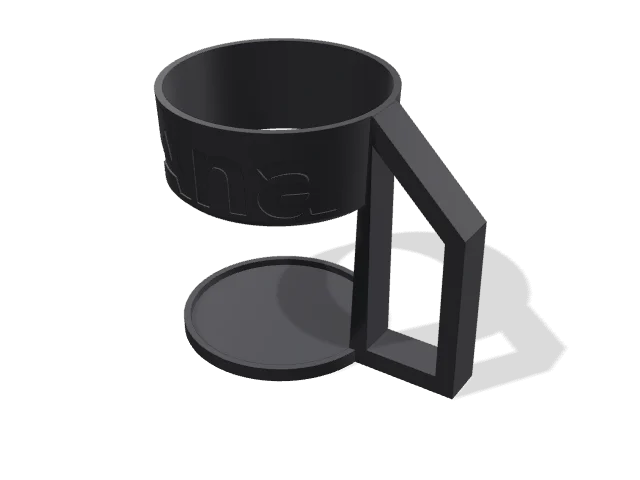
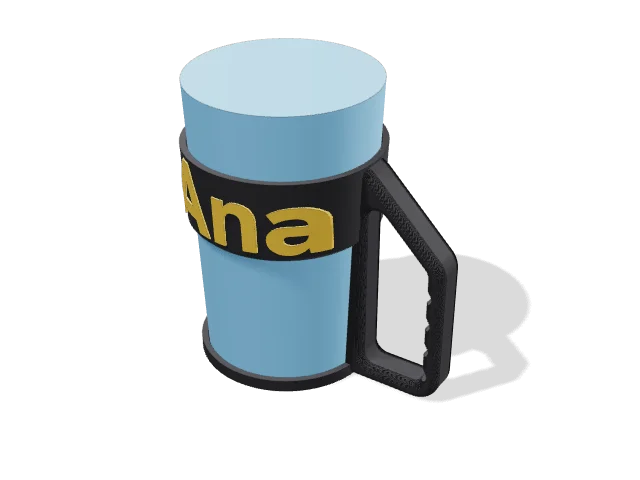
feat: alça de copo: alça arredondada e ergonômica, nome em relevo por padrão, luva vazada/com faixas e copo fantasma na prévia (#221)
Alça com cantos de raio, seção oval e marcas de dedo opcionais; nome em relevo de outra cor como padrão; luva lisa, vazada (furos em volta, sem a frente e a alça) ou com faixas; copo fantasma translúcido do perfil escolhido (só prévia, fora da medida e do arquivo). A medida do chip da prévia passa a ignorar partes fantasma.

Changed region(s): [[0.2188, 0.0625, 0.875, 0.8438]]

diff --git a/src/geometry/models/cupHandle.ts b/src/geometry/models/cupHandle.ts
@@ -1,5 +1,6 @@
 import type { CS, Solid } from "../manifold";
 import { fitInto, scoped } from "../shape2d";
+import { bevelPrism } from "./bevel";
 import { solidMesh, type ModelCtx, type ModelOutput } from "./common";
 
 export type CupHandleParams = {
@@ -19,6 +20,12 @@ export type CupHandleParams = {
   handleWidth: number;
   /** Vão para os dedos. */
   fingerGap: number;
+  /** Luva: lisa, vazada (furos redondos em volta) ou com faixas em relevo no alto e embaixo. */
+  sleeveStyle: "smooth" | "cutouts" | "bands";
+  /** Marcas de dedo na pegada da alça. */
+  grooves: boolean;
+  /** Copo fantasma translúcido na prévia (só para ver o encaixe; não vai para o arquivo). */
+  showCup: boolean;
   name: string;
   nameMode: "engraved" | "raised" | "none";
   depth: number;
@@ -38,13 +45,18 @@ export const DEFAULT_CUP_HANDLE: CupHandleParams = {
   wall: 3,
   handleWidth: 18,
   fingerGap: 32,
+  sleeveStyle: "smooth",
+  grooves: true,
+  showCup: true,
   name: "Ana",
-  nameMode: "engraved",
+  nameMode: "raised",
   depth: 0.8,
   print: "full",
   bodyColor: "#1c1c1e",
   nameColor: "#f5c542",
 };
+
+const CUP_COLOR = "#8fd3ff";
 
 const FLOOR = 6; // espessura do fundo (mm)
 const RECESS = 3; // quanto o fundo do copo entra no assento
@@ -53,6 +65,18 @@ const TEST_HEIGHT = 14; // altura do anel de teste
 const SEGMENTS = 128;
 const SLANT_MIN = 10; // folga mínima entre a barra de baixo e o começo da inclinação de cima
 const MIN_TAPER_WALL = 1.2;
+const PLATE_ROUND = 12; // raio dos cantos de fora da alça
+const WINDOW_ROUND = 6; // raio dos cantos do vão dos dedos
+const EDGE_ROUND = 4; // arredondado da seção da alça (oval)
+const GROOVE_R = 3.5; // marcas de dedo
+const GROOVE_STEP = 14;
+const CUTOUT_COUNT = 12;
+const CUTOUT_FRONT_DEG = 40; // sem furo na frente (nome) nem do lado da alça
+const CUTOUT_HANDLE_DEG = 30;
+const BAND_H = 4;
+const BAND_UP = 0.8;
+const BANDS_MIN_SLEEVE = 30;
+const GHOST_ABOVE = 30; // quanto o copo fantasma passa do topo da luva
 const NAME_EMBED = 0.4; // quanto o relevo do nome entra na parede da luva (fica preso, não solto no ar)
 
 /** Diâmetro do copo a `z` mm da base. */
@@ -114,13 +138,28 @@ export function buildCupHandle(ctx: ModelCtx, p: CupHandleParams): ModelOutput {
     const zTop = L.sleeveTop;
     const zO = Math.max(zTop - (xOut - L.rSleeveTopOut), BAR + SLANT_MIN); // inclinação de 45° em cima: imprime sem suporte
     const outerPoly: [number, number][] = [[0, 0], [xOut, 0], [xOut, zO], [L.rSleeveTopOut, zTop], [0, zTop]];
+    const rounded = (cs: CS, r: number) => k(k(cs.offset(-r, "Round")).offset(r, "Round")); // tira as quinas vivas (cantos convexos com raio r)
     const plate = k(new M.CrossSection([outerPoly], "NonZero"));
     const inside = k(plate.offset(-BAR, "Round"));
     const keep = k(k(M.CrossSection.square([xOut, zTop], false)).translate([xW, 0]));
-    const window = k(inside.intersect(keep));
-    const frame = k(plate.subtract(window));
+    const window = rounded(k(inside.intersect(keep)), WINDOW_ROUND);
+    // a peça de fora arredondada só nos cantos de fora (o lado que entra na luva fica reto, vai para dentro do corpo)
+    const wide = k(new M.CrossSection([[[-50, 0], ...outerPoly.slice(1, 4), [-50, zTop]]], "NonZero")); // prolonga para o lado do eixo: o raio não morde a junção
+    const fromAxis = k(M.CrossSection.square([xOut + 1, zTop + 1], false)); // só o lado de fora do eixo
+    const frame = k(k(rounded(wide, PLATE_ROUND).intersect(fromAxis)).subtract(window));
+    // seção oval: as quatro bordas (fora, vão e topos) recuam em arco nas duas faces
+    const grip = k(bevelPrism(M, frame, p.handleWidth, "round", EDGE_ROUND, { bottom: true, top: true }));
     // CrossSection (x, z) → sólido: extrudado em Y e girado para o plano XZ
-    const handle = k(k(k(frame.extrude(p.handleWidth)).rotate([90, 0, 0])).translate([0, p.handleWidth / 2, 0]));
+    let handle = k(k(grip.rotate([90, 0, 0])).translate([0, p.handleWidth / 2, 0]));
+    if (p.grooves) {
+      // marcas de dedo: sulcos redondos na face de dentro da barra de fora
+      const n = Math.max(2, Math.min(5, Math.floor((zO - 2 * BAR) / GROOVE_STEP)));
+      const grooves = Array.from({ length: n }, (_, i) => {
+        const z = BAR + (zO - 2 * BAR) * ((i + 0.5) / n);
+        return k(k(k(M.Manifold.cylinder(p.handleWidth + 2, GROOVE_R, GROOVE_R, 24)).rotate([90, 0, 0])).translate([xOut - BAR, p.handleWidth / 2 + 1, z]));
+      });
+      handle = k(handle.subtract(k(M.Manifold.union(grooves))));
+    }
 
     let body = k(M.Manifold.union([floor, sleeve, handle]));
     // assento do copo e o espaço do corpo cônico (todo o cone, para a alça não entrar no copo)
@@ -128,24 +167,59 @@ export function buildCupHandle(ctx: ModelCtx, p: CupHandleParams): ModelOutput {
     const bore = k(cone(M, L.rIn(0), L.rIn(p.bodyHeight), L.z0, L.z0 + p.bodyHeight));
     body = k(k(body.subtract(seat)).subtract(bore));
 
+    // ---- luva: faixas em relevo ou furos vazados em volta
+    const outerCone = (extra: number, z0 = L.sleeveBottom, z1 = L.sleeveTop) => {
+      const at = (z: number) => rb + p.wall + ((rt - rb) * (z - L.sleeveBottom)) / p.sleeveHeight + extra;
+      return k(cone(M, at(z0), at(z1), z0, z1));
+    };
+    const bands = p.sleeveStyle === "bands" && p.sleeveHeight >= BANDS_MIN_SLEEVE;
+    if (p.sleeveStyle === "bands" && !bands) warnings.push("A luva é baixa para as faixas: aumente a altura da luva (30 mm ou mais).");
+    const bandParts: Solid[] = [];
+    if (bands) {
+      const lowZ = L.sleeveBottom + p.wall + 1, highZ = L.sleeveTop - BAND_H;
+      for (const z of [lowZ, highZ]) bandParts.push(k(outerCone(BAND_UP, z, z + BAND_H).subtract(outerCone(-NAME_EMBED, z, z + BAND_H))));
+      body = k(body.add(k(M.Manifold.union(bandParts))));
+    }
+    if (p.sleeveStyle === "cutouts" && p.sleeveHeight >= BANDS_MIN_SLEEVE) {
+      const zc = (L.sleeveBottom + p.wall + L.sleeveTop) / 2;
+      const r = Math.min(5, (L.sleeveTop - L.sleeveBottom - p.wall) / 2 - 3);
+      const holes: Solid[] = [];
+      for (let i = 0; i < CUTOUT_COUNT; i++) {
+        const deg = (360 * i) / CUTOUT_COUNT; // 0° = lado da alça (+X), 270° = frente (-Y, nome)
+        const fromHandle = Math.min(deg, 360 - deg), fromFront = Math.abs(deg - 270);
+        if (fromHandle < CUTOUT_HANDLE_DEG || fromFront < CUTOUT_FRONT_DEG) continue;
+        // furo redondo na direção do raio, atravessando só a parede
+        holes.push(k(k(k(k(M.Manifold.cylinder(L.rMaxOut + 5, r, r, 24)).rotate([-90, 0, 0])).rotate([0, 0, deg - 90])).translate([0, 0, zc])));
+      }
+      if (holes.length) body = k(body.subtract(k(M.Manifold.union(holes))));
+    }
+
     // ---- nome na frente da luva (o lado de quem olha, a 90° da alça), curvo como o cone: gravado ou em relevo
     const parts: { name: string; color: string; mesh: ReturnType<typeof solidMesh> }[] = [];
     let nameSolid: Solid | null = null;
     if (p.nameMode !== "none" && p.name.trim()) {
       const raw = ctx.text(p.name, 12);
       if (raw) {
-        const zLow = L.sleeveBottom + p.wall + 2, zHigh = L.sleeveTop - 2; // acima da rampa de baixo
+        const zLow = L.sleeveBottom + p.wall + (bands ? 1 + BAND_H + 1.5 : 2), zHigh = L.sleeveTop - (bands ? BAND_H + 1.5 : 2); // acima da rampa de baixo e entre as faixas
         const circumference = Math.PI * (L.rIn(p.gripZ) + p.wall + L.rSleeveTopOut);
         const t: CS = k(fitInto(k(raw), Math.min(circumference * 0.4, 90), Math.max(6, zHigh - zLow), (zLow + zHigh) / 2));
         // texto no plano XZ, empurrado para -Y a partir do eixo; a casca do cone recorta a profundidade
         const prism = k(k(t.extrude(L.rMaxOut + 5)).rotate([90, 0, 0]));
-        const outerCone = (extra: number) => k(cone(M, rb + p.wall + extra, rt + p.wall + extra, L.sleeveBottom, L.sleeveTop));
         if (p.nameMode === "engraved") body = k(body.subtract(k(prism.intersect(k(outerCone(1).subtract(outerCone(-p.depth)))))));
         else nameSolid = k(prism.intersect(k(outerCone(p.depth).subtract(outerCone(-NAME_EMBED)))));
       }
     }
     parts.push({ name: "Alça", color: p.bodyColor, mesh: solidMesh(body) });
     if (nameSolid) parts.push({ name: "Nome", color: p.nameColor, mesh: solidMesh(nameSolid) });
-    return { models: [{ name: "Alça de copo", parts }], warnings };
+    const models: { name: string; parts: typeof parts; previewOnly?: boolean }[] = [{ name: "Alça de copo", parts }];
+    if (p.showCup) {
+      // copo fantasma do perfil, assentado onde o copo fica: só a parte de baixo, até um pouco acima da luva
+      const h = Math.min(p.bodyHeight, L.sleeveTop + GHOST_ABOVE - L.z0);
+      const top = L.rIn(h) - p.clearance;
+      const cupBody = k(M.Manifold.cylinder(h, p.baseDiameter / 2, top, SEGMENTS)).translate([0, 0, L.z0]);
+      models.push({ name: "Copo (só na prévia)", previewOnly: true, parts: [{ name: "", color: CUP_COLOR, ghost: true, mesh: solidMesh(cupBody) } as (typeof parts)[number]] });
+      cupBody.delete();
+    }
+    return { models, warnings };
   });
 }

diff --git a/src/geometry/models/cupHandle.test.ts b/src/geometry/models/cupHandle.test.ts
@@ -104,4 +104,52 @@ describe("alça de copo térmico: luva cônica, fundo, alça com nome e anel de 
       s.delete();
     }
   });
+
+  test("alça arredondada: a seção é oval (a borda da face some, o meio é cheio) e as marcas de dedo tiram material", () => {
+    const L = handleLayout(DEFAULT_CUP_HANDLE);
+    const xBar = L.rMaxOut + DEFAULT_CUP_HANDLE.fingerGap + 4; // meio da barra de fora
+    const probe = (y: number, z: number) => M.Manifold.cube([7, 0.2, 1], true).translate([xBar, y, z]);
+    const body = solid(part(handle({ grooves: false }), "Alça")!.mesh);
+    const z = 40;
+    const mid = body.intersect(probe(0, z)).volume(), edge = body.intersect(probe(DEFAULT_CUP_HANDLE.handleWidth / 2 - 0.2, z)).volume();
+    body.delete();
+    expect(mid).toBeGreaterThan(1); // no meio da largura a barra é cheia
+    expect(edge).toBeLessThan(mid * 0.5); // na borda da face ela afina em arco
+    expect(vol(part(handle({ grooves: true }), "Alça")!.mesh)).toBeLessThan(vol(part(handle({ grooves: false }), "Alça")!.mesh) - 5);
+  });
+
+  test("nome em relevo é o padrão (outra cor); copo fantasma só na prévia, translúcido e sem nome na legenda", () => {
+    const out = handle();
+    expect(part(out, "Nome")).toBeDefined();
+    const ghost = out.models.find((m) => m.previewOnly)!;
+    expect(ghost.parts[0].ghost).toBe(true);
+    expect(ghost.parts[0].name).toBe("");
+    const gb = meshBounds([ghost.parts[0].mesh])!;
+    const L = handleLayout(DEFAULT_CUP_HANDLE);
+    expect(gb.min[2]).toBeCloseTo(L.z0, 2); // assentado onde o copo fica
+    expect(gb.max[2]).toBeGreaterThan(L.sleeveTop); // passa do topo da luva
+    expect(gb.max[0] - gb.min[0]).toBeCloseTo(DEFAULT_CUP_HANDLE.baseDiameter + ((DEFAULT_CUP_HANDLE.topDiameter - DEFAULT_CUP_HANDLE.baseDiameter) * (gb.max[2] - L.z0)) / DEFAULT_CUP_HANDLE.bodyHeight, 0);
+    expect(out.models.filter((m) => !m.previewOnly).map((m) => m.name)).toEqual(["Alça de copo"]);
+    expect(handle({ showCup: false }).models.some((m) => m.previewOnly)).toBe(false);
+    // o fantasma não toca a peça (o copo cabe com folga)
+    const body = solid(part(out, "Alça")!.mesh), cupSolid = solid(ghost.parts[0].mesh);
+    expect(body.intersect(cupSolid).volume()).toBeLessThan(0.5);
+    [body, cupSolid].forEach((o) => o.delete());
+  });
+
+  test("luva vazada: furos redondos em volta (menos a frente e a alça); faixas somam relevo; luva baixa avisa; o copo continua cabendo", () => {
+    const smooth = vol(part(handle({ nameMode: "none" }), "Alça")!.mesh);
+    const cut = handle({ sleeveStyle: "cutouts", nameMode: "none" });
+    expect(vol(part(cut, "Alça")!.mesh)).toBeLessThan(smooth - 100);
+    const body = solid(part(cut, "Alça")!.mesh);
+    expect(body.decompose().length).toBe(1);
+    const exact = cup(DEFAULT_CUP_HANDLE, 0);
+    expect(body.intersect(exact).volume()).toBeLessThan(0.5);
+    [body, exact].forEach((o) => o.delete());
+    const banded = handle({ sleeveStyle: "bands", nameMode: "none" });
+    expect(vol(part(banded, "Alça")!.mesh)).toBeGreaterThan(smooth + 20);
+    expect(handle({ sleeveStyle: "bands", sleeveHeight: 20 }).warnings?.join(" ")).toMatch(/luva é baixa/);
+    // o nome em relevo cabe entre as faixas
+    expect(part(handle({ sleeveStyle: "bands" }), "Nome")).toBeDefined();
+  });
 });

diff --git a/src/qa/cases.ts b/src/qa/cases.ts
@@ -63,7 +63,7 @@ export async function modelCtx(M: ManifoldToplevel, p: Params, def: ModelDef): P
 }
 
 /** Variações extras por modelo (além de padrão, mínimo e máximo): opções que mudam a peça e precisam fatiar também. */
-const QA_EXTRA: Record<string, Record<string, Params>> = { starMap: { "estrelas vazadas": { hollow: true, density: "few" } }, musicCard: { QR: { code: "qr", codeSize: 44 } }, wallLetters: { "FESTA 600 mm (muitas partes)": { height: 600 } }, kitBicho: { saurópode: { head: "sauro", tail: "thick" }, "T-rex": { head: "trex", tail: "thick" } }, cupHandle: { "anel de teste": { print: "test" }, "copo pequeno": { baseDiameter: 62, topDiameter: 78, bodyHeight: 165, gripZ: 45, sleeveHeight: 35 }, "nome em relevo": { nameMode: "raised" } }, kitCard: { veículo: { mode: "vehicle" }, "vários cartões": { cardSize: "medium", ribs: 3, spines: 1, copies: 4 }, "uma placa lateral": { spines: 1 } } };
+const QA_EXTRA: Record<string, Record<string, Params>> = { starMap: { "estrelas vazadas": { hollow: true, density: "few" } }, musicCard: { QR: { code: "qr", codeSize: 44 } }, wallLetters: { "FESTA 600 mm (muitas partes)": { height: 600 } }, kitBicho: { saurópode: { head: "sauro", tail: "thick" }, "T-rex": { head: "trex", tail: "thick" } }, cupHandle: { "anel de teste": { print: "test" }, "copo pequeno": { baseDiameter: 62, topDiameter: 78, bodyHeight: 165, gripZ: 45, sleeveHeight: 35 }, "nome gravado": { nameMode: "engraved" }, "luva vazada": { sleeveStyle: "cutouts" }, "luva com faixas": { sleeveStyle: "bands" }, "sem marcas de dedo, sem fantasma": { grooves: false, showCup: false } }, kitCard: { veículo: { mode: "vehicle" }, "vários cartões": { cardSize: "medium", ribs: 3, spines: 1, copies: 4 }, "uma placa lateral": { spines: 1 } } };
 
 /** Padrão, todos os campos numéricos no mínimo e todos no máximo (mais as variações extras do modelo). */
 export function variants(def: ModelDef): [QaCase["variant"], Params][] {

diff --git a/src/geometry/models/bevel.ts b/src/geometry/models/bevel.ts
@@ -1,0 +1,38 @@
+import type { CS, ManifoldToplevel, Solid } from "../manifold";
+import { scoped } from "../shape2d";
+
+export type Edge = "none" | "chamfer" | "round";
+
+const STEP = 0.2; // mm de altura de cada degrau do chanfro: a mesma ordem da camada de impressão
+
+/** Quanto o contorno recua (mm) a z mm do começo da aresta de raio/chanfro `c`. */
+function inset(edge: Edge, c: number, z: number): number {
+  if (edge === "chamfer") return c - z;
+  return c - Math.sqrt(Math.max(0, c * c - (c - z) * (c - z)));
+}
+
+/**
+ * Prisma do contorno `outline` com altura `h`, com a aresta de baixo e/ou a de cima chanfrada ou arredondada (`c` mm).
+ * O perfil sai em degraus de 0,2 mm (a altura de uma camada), então o fatiador vê a curva inteira. Quem chama dá delete().
+ */
+export function bevelPrism(M: ManifoldToplevel, outline: CS, h: number, edge: Edge, c: number, ends: { bottom?: boolean; top?: boolean }): Solid {
+  return scoped((k) => {
+    const cc = edge === "none" ? 0 : Math.min(c, h / 2 - 0.01);
+    if (cc <= 0) return outline.extrude(h);
+    const n = Math.max(1, Math.round(cc / STEP));
+    const slab = (z0: number, z1: number, inner: number) => {
+      const src = inner ? k(outline.offset(-inner, "Round")) : outline;
+      return k(src.extrude(z1 - z0)).translate([0, 0, z0]);
+    };
+    const pieces: Solid[] = [];
+    const lo = ends.bottom ? cc : 0, hi = ends.top ? cc : 0;
+    pieces.push(k(slab(lo, h - hi, 0)));
+    for (let i = 0; i < n; i++) {
+      const z0 = (i * cc) / n, z1 = ((i + 1) * cc) / n;
+      const ins = inset(edge, cc, (z0 + z1) / 2);
+      if (ends.bottom) pieces.push(k(slab(z0, z1, ins)));
+      if (ends.top) pieces.push(k(slab(h - z1, h - z0, ins)));
+    }
+    return M.Manifold.union(pieces);
+  });
+}

diff --git a/src/tools/models/catalog/kitchen.ts b/src/tools/models/catalog/kitchen.ts
@@ -234,7 +234,7 @@ export const KITCHEN_MODELS: ModelDef[] = [
     id: "cupHandle",
     category: "kitchen",
     label: "Alça de copo térmico",
-    blurb: "Alça removível para copo cônico (tipo Stanley): o copo assenta num fundo e uma luva do mesmo cone o abraça, com a alça em D e o nome gravado. Imprima antes o anel de teste.",
+    blurb: "Alça removível para copo cônico (tipo Stanley): o copo assenta num fundo e uma luva do mesmo cone o abraça, com a alça em D com a alça arredondada e o nome na frente. Veja o encaixe pelo copo fantasma e imprima antes o anel de teste.",
     icon: CupSoda,
     font: true,
     defaults: DEFAULT_CUP_HANDLE,
@@ -256,13 +256,16 @@ export const KITCHEN_MODELS: ModelDef[] = [
           num("wall", "Parede da luva", 2, 6, { step: 0.5 }),
           num("handleWidth", "Largura da alça", 12, 30, { step: 1 }),
           num("fingerGap", "Vão dos dedos", 20, 60, { step: 1 }),
+          bool("grooves", "Marcas de dedo na pegada"),
+          choice("sleeveStyle", "Luva", [["smooth", "Lisa"], ["cutouts", "Vazada"], ["bands", "Com faixas"]]),
+          bool("showCup", "Mostrar o copo fantasma na prévia (só para ver o encaixe)"),
         ],
       },
       {
         title: "Nome",
         fields: [
           text("name", "Nome", 12),
-          choice("nameMode", "Nome", [["engraved", "Gravado"], ["raised", "Em relevo (outra cor)"], ["none", "Sem nome"]]),
+          choice("nameMode", "Nome", [["raised", "Em relevo (outra cor)"], ["engraved", "Gravado"], ["none", "Sem nome"]]),
           num("depth", "Profundidade / relevo", 0.4, 1.6, { step: 0.1 }),
         ],
       },

diff --git a/tests/e2e/alca-copo.e2e.ts b/tests/e2e/alca-copo.e2e.ts
@@ -39,6 +39,22 @@ test("alça de copo: perfis prontos mudam as medidas, o anel de teste é pequeno
   await expect(page.getByText(/passa do topo/)).toBeVisible();
 });
 
+test("alça de copo: nome em relevo de outra cor por padrão, luva vazada e com faixas, copo fantasma não conta na medida", async ({ page }) => {
+  await open(page);
+  await expect(page.locator(".viewer .legend")).toContainText("Nome"); // outra cor: o nome não some no preto
+  const h = async () => Number(/× ([\d.]+) × /.exec((await page.locator(".viewer .hud").first().textContent()) ?? "")![1]);
+  const withCup = await h();
+  await page.getByRole("switch", { name: /copo fantasma/ }).uncheck();
+  await idle(page);
+  expect(await h()).toBeCloseTo(withCup, 1); // o fantasma é só para ver
+  await page.getByRole("button", { name: "Vazada" }).click();
+  await idle(page);
+  await expect(page.getByRole("button", { name: "Salvar 3MF" })).toBeEnabled();
+  await page.getByRole("button", { name: "Com faixas" }).click();
+  await idle(page);
+  await expect(page.getByRole("button", { name: "Salvar 3MF" })).toBeEnabled();
+});
+
 test("alça de copo: acessibilidade (axe), claro e escuro", async ({ page }) => {
   await open(page);
   for (const scheme of ["light", "dark"] as const) {

diff --git a/src/ui/viewerScene.test.tsx b/src/ui/viewerScene.test.tsx
@@ -224,6 +224,13 @@ describe("Preview3D", () => {
     expect(screen.queryByText("A prévia aparece aqui.")).not.toBeInTheDocument();
   });
 
+  test("a medida do chip ignora partes fantasma (copo da prévia, plano do corte)", () => {
+    const base = model(40);
+    const ghost = { ...model(40), parts: model(40).parts.map((p) => ({ ...p, ghost: true, mesh: { ...p.mesh, positions: p.mesh.positions.map((v, i) => (i % 3 === 2 ? v * 5 : v)) } })) };
+    render(<Preview3D models={[base, ghost]} />);
+    expect(screen.getByText("40.0 × 40.0 × 20.0 mm")).toBeInTheDocument();
+  });
+
   test("estados: vazio, carregando e erro", () => {
     const { rerender, container } = render(<Preview3D models={[]} emptyText="Envie algo." />);
     expect(screen.getByText("Envie algo.")).toBeInTheDocument();

diff --git a/src/ui/Preview3D.tsx b/src/ui/Preview3D.tsx
@@ -103,7 +103,9 @@ export default function Preview3D({ models, busy, busyText = "Gerando modelo…"
 
   const legend = [...new Map(models.flatMap((m) => m.parts).filter((p) => p.name).map((p) => [p.color + p.name, p])).values()].slice(0, 8); // parte sem nome (contorno do plano) não entra na legenda
   const hintId = useId();
-  const b = modelsBounds(models);
+  // as medidas são da peça: partes fantasma (copo, plano de corte) só aparecem na vista e não contam
+  const solid = models.map((m) => ({ ...m, parts: m.parts.filter((p) => !p.ghost) })).filter((m) => m.parts.length);
+  const b = modelsBounds(solid.length ? solid : models);
   const size = b && { x: b.max[0] - b.min[0], y: b.max[1] - b.min[1], z: b.max[2] - b.min[2] };
 
   const viewerEl = (

diff --git a/CHANGELOG.md b/CHANGELOG.md
@@ -4,7 +4,7 @@ Cada versão aparece para a usuária na tela "O que há de novo" depois da atual
 Formato: `## <versão> — <data>` e itens `- …` em linguagem simples.
 
 ## Próxima versão (ainda não lançada)
-- **Alça de copo térmico (#221)**: em Modelos prontos › Cozinha › Alça de copo. Alça removível para copo cônico (tipo Stanley): o copo assenta num fundo com borda e uma luva do mesmo cone dele, com folga, o abraça; a alça em D sai para o lado, com vão para os dedos, e o nome fica na frente da luva, curvo, gravado ou em relevo (outra cor). Você dá o diâmetro da base e do corpo e a altura do copo ou escolhe um perfil pronto (Quencher 40 e 30 oz, copos de 1,2 L, 900 ml e 500 ml; os valores são aproximados, por isso o app pede para conferir). Tem o "só o anel de teste": uma luva curta que tem que subir pelo copo e parar na altura marcada, para ajustar a folga antes da peça inteira. A borda de baixo da luva é inclinada, então imprime em pé sem suporte; PETG.
+- **Alça de copo térmico (#221)**: em Modelos prontos › Cozinha › Alça de copo. Alça removível para copo cônico (tipo Stanley): o copo assenta num fundo com borda e uma luva do mesmo cone dele, com folga, o abraça; a alça em D sai para o lado, com vão para os dedos, e o nome fica na frente da luva, curvo, gravado ou em relevo (outra cor). Você dá o diâmetro da base e do corpo e a altura do copo ou escolhe um perfil pronto (Quencher 40 e 30 oz, copos de 1,2 L, 900 ml e 500 ml; os valores são aproximados, por isso o app pede para conferir). Tem o "só o anel de teste": uma luva curta que tem que subir pelo copo e parar na altura marcada, para ajustar a folga antes da peça inteira. A alça é arredondada (seção oval, cantos com raio) e tem marcas de dedo opcionais; o nome sai em relevo de outra cor por padrão; a luva pode ser lisa, vazada ou com faixas; e a prévia mostra um copo fantasma translúcido do perfil escolhido para ver o encaixe (ele não conta na medida nem vai para o arquivo). A borda de baixo da luva é inclinada, então imprime em pé sem suporte; PETG.
 
 ## 0.12.5 — 2026-10-15
 - **Corte parcial**: nova ferramenta que corta só um pedaço de um STL ou 3MF, sem o plano atravessar a peça inteira como no fatiador. Você escolhe a direção, a posição e a inclinação do plano e limita o corte a uma região: caixa, cilindro (cabeça, braço, galho) ou esfera, que você arrasta direto na vista 3D pelas alças ou ajusta nos controles. Ao escolher cilindro ou esfera, ou ao clicar numa parte, a região já envolve a parte inteira, e o app avisa se ela corta a peça pelo lado. Dá para fazer vários cortes no mesmo arquivo, escolher o filamento de cada pedaço (cada objeto abre no extrusor certo no fatiador) e ver o peso e o tempo de cada peça. Pino ou furo na face cortada com tamanho e posição automáticos, sempre escondido dentro das duas peças. Botões de vista (frente, lado, cima, 3/4), cada peça na cor que vai para o arquivo e afastável na prévia, plano translúcido e região tracejada, uma análise que sugere onde cortar para imprimir com menos suporte (braços e abas no ar), saídas na hora quando o pino não cabe (pino fixo menor ou colar sem pino), reparo automático de furos na malha e peças grandes (centenas de milhares de triângulos) calculadas sem travar a tela, e o 3MF sai com resto, pedaços (deitados na face cortada) e pinos, conferidos como sólidos fechados que somam o volume original

diff --git a/docs/QA-modelos.md b/docs/QA-modelos.md
@@ -23,7 +23,7 @@ Peça maior que a mesa de 256 mm do A1 conta como **aviso** quando o app avisa n
 impressoras de mesa maior); sem o aviso do app, é **falha**.
 
 
-**Total:** 335 casos · 247 ok · 88 com aviso · 0 com falha · 0 n/a
+**Total:** 338 casos · 249 ok · 89 com aviso · 0 com falha · 0 n/a
 
 ## Forja
 
@@ -323,11 +323,14 @@ impressoras de mesa maior); sem o aviso do app, é **falha**.
 | Boleira (cakeStand) | mínimo | ✅ ok | Bambu ✓ · Orca ✓ · Projeto Bambu ✓ | 36 | 16,6 | 1 | – | – |
 | Boleira (cakeStand) | padrão | ✅ ok | Bambu ✓ · Orca ✓ · Projeto Bambu ✓ | 157 | 108,2 | 1 | – | – |
 | Alça de copo térmico (cupHandle) | anel de teste | ✅ ok | Bambu ✓ · Orca ✓ | 14 | 14,5 | 1 | – | app: Anel de teste: ele tem que passar pelo copo de baixo para cima e parar rente à marca de 70 mm da base. Se apertar, aumente a folga; se ficar folgado, diminua. |
-| Alça de copo térmico (cupHandle) | copo pequeno | ✅ ok | Bambu ✓ · Orca ✓ | 87 | 56,9 | 1 | – | – |
-| Alça de copo térmico (cupHandle) | máximo | ✅ ok | Bambu ✓ · Orca ✓ | 407 | 286,4 | 1 | – | – |
-| Alça de copo térmico (cupHandle) | mínimo | ✅ ok | Bambu ✓ · Orca ✓ | 26 | 14,4 | 1 | – | – |
-| Alça de copo térmico (cupHandle) | nome em relevo | ✅ ok | Bambu ✓ · Orca ✓ · Projeto Bambu ✓ | 434 | 171,5 | 1 | – | – |
-| Alça de copo térmico (cupHandle) | padrão | ✅ ok | Bambu ✓ · Orca ✓ | 123 | 81,3 | 1 | – | – |
+| Alça de copo térmico (cupHandle) | copo pequeno | ✅ ok | Bambu ✓ · Orca ✓ · Projeto Bambu ✓ | 383 | 129,1 | 1 | – | – |
+| Alça de copo térmico (cupHandle) | luva com faixas | ✅ ok | Bambu ✓ · Orca ✓ · Projeto Bambu ✓ | 417 | 152,8 | 1 | – | – |
+| Alça de copo térmico (cupHandle) | luva vazada | ✅ ok | Bambu ✓ · Orca ✓ · Projeto Bambu ✓ | 489 | 167,2 | 1 | – | – |
+| Alça de copo térmico (cupHandle) | máximo | ⚠ aviso | Bambu ✓ · Orca ✓ · Projeto Bambu ✓ | – | – | – | – | Bambu: torre de purga passa da mesa na posição padrão do CLI (na tela, arraste a torre ou use Arrumar); Orca: torre de purga passa da mesa na posição padrão do CLI (na tela, arraste a torre ou use Arrumar); Projeto Bambu: torre de purga passa da mesa na posição padrão do CLI (na tela, arraste a torre ou use Arrumar) |
+| Alça de copo térmico (cupHandle) | mínimo | ✅ ok | Bambu ✓ · Orca ✓ · Projeto Bambu ✓ | 112 | 37,1 | 1 | – | – |
+| Alça de copo térmico (cupHandle) | nome gravado | ✅ ok | Bambu ✓ · Orca ✓ | 169 | 79,5 | 1 | – | – |
+| Alça de copo térmico (cupHandle) | padrão | ✅ ok | Bambu ✓ · Orca ✓ · Projeto Bambu ✓ | 486 | 169,4 | 1 | – | – |
+| Alça de copo térmico (cupHandle) | sem marcas de dedo, sem fantasma | ✅ ok | Bambu ✓ · Orca ✓ · Projeto Bambu ✓ | 492 | 169,9 | 1 | – | – |
 | Cortador + carimbo (cutterStamp) | máximo | ✅ ok | Bambu ✓ · Orca ✓ | 62 | 51,5 | 1 | – | app: Sem desenho interno para marcar: sai só o cortador. |
 | Cortador + carimbo (cutterStamp) | mínimo | ✅ ok | Bambu ✓ · Orca ✓ | 7 | 1,8 | 1 | – | app: Sem desenho interno para marcar: sai só o cortador. |
 | Cortador + carimbo (cutterStamp) | padrão | ✅ ok | Bambu ✓ · Orca ✓ | 13 | 5,9 | 1 | – | app: Sem desenho interno para marcar: sai só o cortador. |
